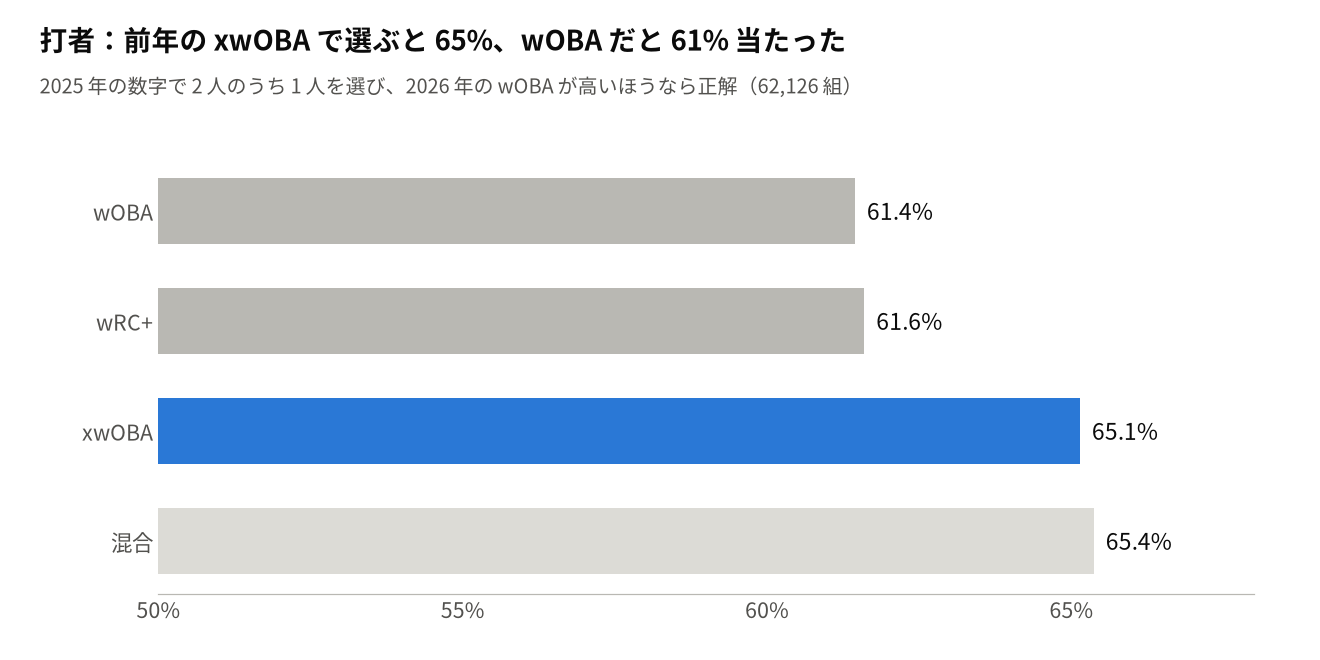
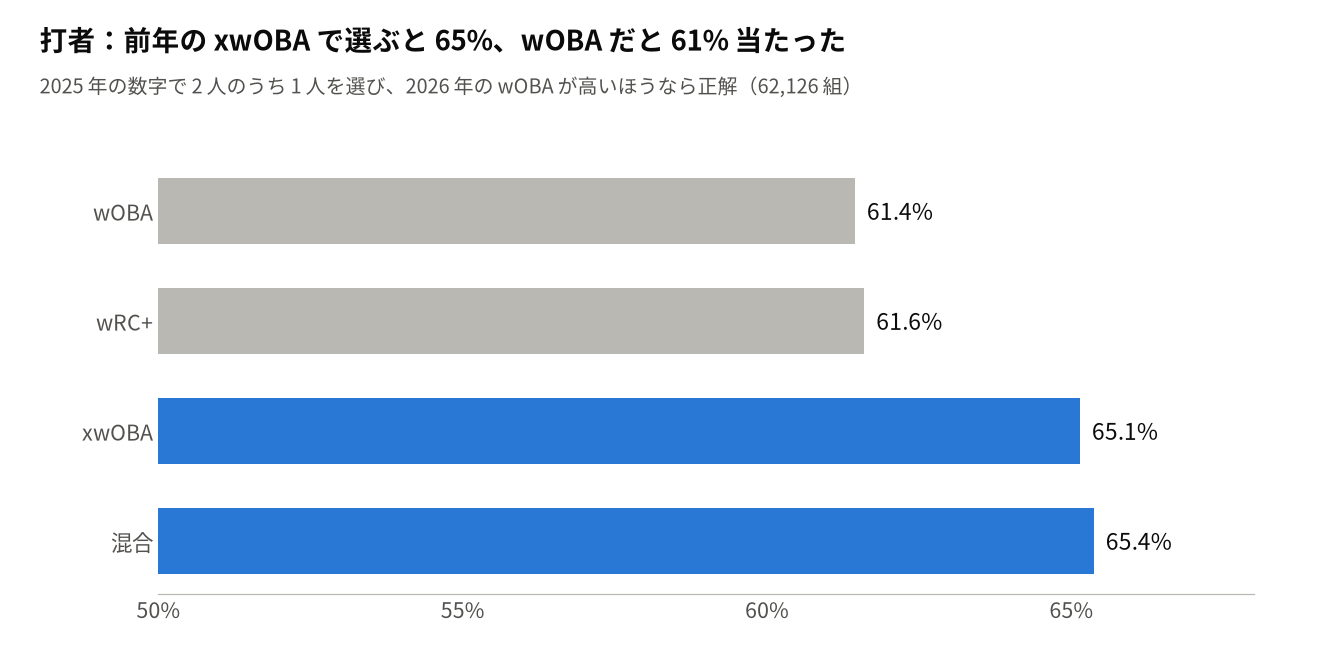
analysis: address the audit of the decision_pairs write-up
article_dig.py: check the hitter blend in the reproduction, drop
next-season ties in the strong-disagreement counts (none occur), record
the 2026 PA of the example hitters, remove a dead fallback.
article_figs.py: blend drawn as better in chart 1, in-sample note in
chart 3, chart 4/5/7 titles say no more than the evidence.

Claude-Session: https://claude.ai/code/session_014wyqrWp15KZg99mNBWs5vs

Changed region(s): [[0.0932, 0.7576, 0.8386, 0.8788]]

diff --git a/analysis/decision_pairs/article_figs.py b/analysis/decision_pairs/article_figs.py
@@ -33,19 +33,19 @@ T = {
    f2n="2026 年、前年の wOBA（打者）・ERA（投手）で選んだときとの正解率の差と 95% 区間（ポイント）",
    f2a="打者（基準：wOBA）", f2b="投手（基準：ERA）",
    f3="2026 年の結果は、作り方を決めた期間とおおむね同じ並びだった",
-   f3n="正解率。白丸＝2015〜2024 年（2019・2020 年を除く）、青丸＝2026 年",
+   f3n="正解率。白丸＝2015〜2024 年（2019・2020 年を除く。混合はこの期間で式を決めた）、青丸＝2026 年",
    f3a="打者", f3b="投手",
-   f4="2 つの数字が別の選手を指したとき、打者は xwOBA、投手は K−BB% が多く当たった",
-   f4n="2026 年、2 つの数字が割れた組だけでの正解率（点線＝五分五分）",
+   f4="2 つの数字が別の選手を指した組では、打者は xwOBA が 59% 当たった",
+   f4n="2026 年、2 つの数字が割れた組だけでの正解率（点線＝五分五分）。投手の 54% は 1 シーズンでは区別できない",
    f4l=["wOBA と xwOBA が\n割れた 12,195 組", "ERA と K−BB% が\n割れた 11,028 組"],
    f4a=["wOBA", "xwOBA"], f4b=["ERA", "K−BB%"],
-   f5="当たっても差は小さい：選んだ打者の翌年 wOBA は平均 .019 高いだけ",
-   f5n="2026 年、選んだ選手と選ばなかった選手の翌年の成績の差（全組の平均）",
+   f5="xwOBA で選んだ打者の翌年 wOBA は、全部の組の平均で .019 高かった",
+   f5n="2026 年、選んだ選手と選ばなかった選手の翌年の成績の差（外れた組はマイナスとして全組で平均）",
    f5a="打者：翌年の wOBA の差", f5b="投手：翌年の ERA の差（点／9 回）",
    f6="前年の xwOBA のほうが、翌年の wOBA と強く結びつく",
    f6n="2025 年と 2026 年の両方で 100 打席以上の 353 人",
    f6xa="2025 年の wOBA", f6xb="2025 年の xwOBA", f6y="2026 年の wOBA",
-   f7="同じ年の数字を知っていても、当たるのは 8 割前後まで",
+   f7="同じ年の数字で当てても、8 割前後だった（参考値）",
    f7n="2026 年の正解率。「同じ年」は 2026 年の数字で 2026 年の結果を当てた参考値",
    f7l=dict(coin="五分五分", prev_a="前年の\nwOBA", prev_b="前年の\nxwOBA", same_b="同じ年の\nxwOBA",
             prev_c="前年の\nERA", prev_d="前年の\nK−BB%", same_d="同じ年の\nFIP"),
@@ -62,19 +62,19 @@ T = {
    f2n="2026, share picked right minus the wOBA (hitters) or ERA (pitchers) rule, 95% intervals (points)",
    f2a="Hitters (vs wOBA)", f2b="Pitchers (vs ERA)",
    f3="2026 came out in roughly the same order as the development seasons",
-   f3n="Share picked right. White = 2015-2024 (without 2019 and 2020), blue = 2026",
+   f3n="Share picked right. White = 2015-2024 (without 2019 and 2020; the blend was fitted on it), blue = 2026",
    f3a="Hitters", f3b="Pitchers",
-   f4="When the two disagree, xwOBA and K−BB% were right more often",
-   f4n="2026, only the pairs where the two rules pick different players (dotted line = coin flip)",
+   f4="When wOBA and xwOBA disagree, xwOBA was right 59% of the time",
+   f4n="2026, only pairs where the two rules pick different players (dotted = coin flip). Pitchers' 54% is not separable in one season",
    f4l=["wOBA vs xwOBA\n12,195 pairs", "ERA vs K−BB%\n11,028 pairs"],
    f4a=["wOBA", "xwOBA"], f4b=["ERA", "K−BB%"],
-   f5="A right pick is worth little: the picked hitter's wOBA was only .019 higher",
-   f5n="2026, next-season gap between the player picked and the one left, mean over all pairs",
+   f5="Hitters picked on xwOBA had a next-season wOBA .019 higher, over all pairs",
+   f5n="2026, next-season gap between the player picked and the one left (wrong picks negative), mean over all pairs",
    f5a="Hitters: next-season wOBA gap", f5b="Pitchers: next-season ERA gap (runs per 9)",
    f6="Last season's xwOBA tracks next season's wOBA more closely",
    f6n="353 hitters with 100+ PA in both 2025 and 2026",
    f6xa="2025 wOBA", f6xb="2025 xwOBA", f6y="2026 wOBA",
-   f7="Even same-season numbers pick right only about 80% of the time",
+   f7="Same-season numbers picked right about 80% of the time (reference)",
    f7n="2026 share picked right. Same season = 2026 numbers used to pick the 2026 result (reference)",
    f7l=dict(coin="Coin flip", prev_a="Last\nwOBA", prev_b="Last\nxwOBA", same_b="Same-season\nxwOBA",
             prev_c="Last\nERA", prev_d="Last\nK−BB%", same_d="Same-season\nFIP"),
@@ -122,7 +122,7 @@ for lang, t in T.items():
     fig, ax = plt.subplots(figsize=(12, 6))
     fig.subplots_adjust(left=0.12, right=0.95, top=0.76, bottom=0.1)
     title(fig, t["f1"], t["f1n"]); base(ax)
-    ax.barh(range(4), acc, color=[GRAY, GRAY, BLUE, LIGHT], height=0.6)
+    ax.barh(range(4), acc, color=[GRAY, GRAY, BLUE, BLUE], height=0.6)
     for i, a in enumerate(acc):
         ax.text(a + 0.002, i, pct(a), va="center", fontsize=15, color=INK)
     ax.set_yticks(range(4), [t["bl"][k] for k in order]); ax.invert_yaxis()

diff --git a/analysis/decision_pairs/article_dig.py b/analysis/decision_pairs/article_dig.py
@@ -88,7 +88,8 @@ for _, g in d.groupby("role"):
     for _, a in g.iterrows():
         for _, b in g.iterrows():
             if a.era < b.era - 1.0 and a.k_minus_bb_rate < b.k_minus_bb_rate - 0.06:
-                big.append(b.era_next < a.era_next)
+                if b.era_next != a.era_next:  # an equal next-season ERA is dropped, as in pairs.py
+                    big.append(b.era_next < a.era_next)
 out["pitchers"]["strong_disagree"] = {"pairs": len(big), "kbb_right": float(np.mean(big))}
 pcols = ["era", "k_minus_bb_rate", "fip", "xera", "bf", "era_next"]
 ids = {pn[i]: i for i in d.player_id}  # names among the pitchers in the decision set
@@ -100,8 +101,9 @@ out["pitchers"]["examples"] = {
 
 # ---------------- hitters
 bdf = B.load()
-db = B.build_rows(bdf, [B.PRIMARY_SEASON] if hasattr(B, "PRIMARY_SEASON") else [2025])
+db = B.build_rows(bdf, [B.PRIMARY_SEASON])
 bsc = {k: f(db).to_numpy(float) for k, f in B.RULES.items()}
+bsc["blend"] = -(B.design(db) @ np.array(B.FROZEN_BETA))
 brep, bn_ = point(B, B.cells(db, bsc))
 bprim = json.loads((HERE.parent / "decision_pairs_batters" / "primary.json").read_text())["all"]
 for k, v in brep.items():
@@ -124,12 +126,13 @@ g = db[db.pa >= 500]
 for _, a in g.iterrows():
     for _, b in g.iterrows():
         if a.woba > b.woba + 0.025 and a.xwoba < b.xwoba - 0.025:
-            big.append(b.woba_next > a.woba_next)
+            if b.woba_next != a.woba_next:
+                big.append(b.woba_next > a.woba_next)
 out["hitters"]["strong_disagree"] = {"pairs": len(big), "xwoba_right": float(np.mean(big))}
 bids = {bnames[i]: i for i in db.player_id}  # names among the hitters in the decision set
 dup = db.player_id.map(bnames).value_counts()
 dup = set(dup[dup > 1].index)  # two hitters share a name (e.g. Max Muncy); none of the examples may be one
-bcols = ["woba", "xwoba", "pa", "woba_next"]
+bcols = ["woba", "xwoba", "pa", "woba_next", "pa_next"]
 out["hitters"]["examples"] = {
     f"{a} / {b}": pair_row(db, bids[a], bids[b], bcols)
     for a, b in [("Harrison Bader", "Salvador Perez"), ("Jacob Wilson", "Salvador Perez")]
